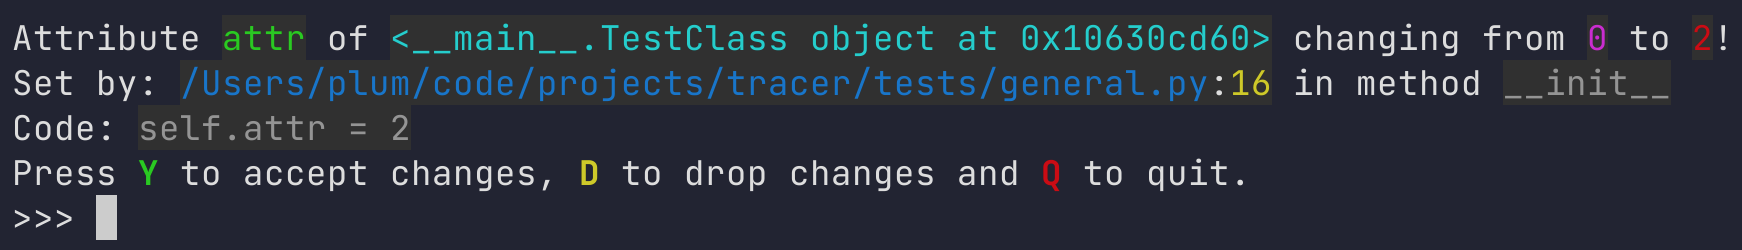
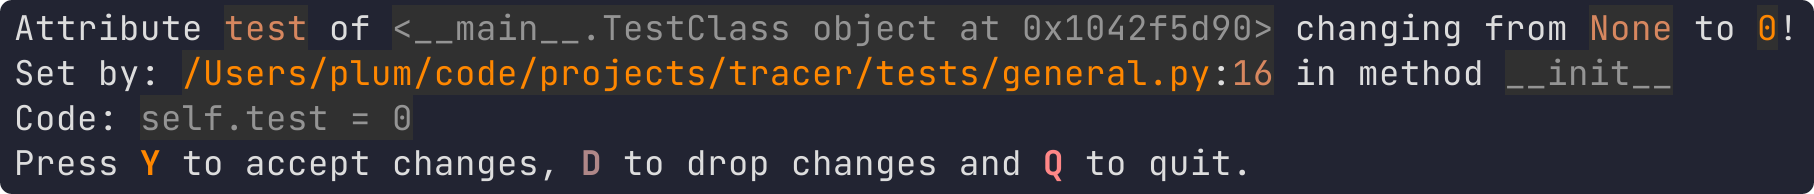
Add new colorscheme, update screenshot

diff --git a/tracer/tracer.py b/tracer/tracer.py
@@ -19,11 +19,12 @@ Traceback = Any
 
 
 TEMPLATE = """
-Attribute [code green]{attribute}[/] of [code cyan]{cls!r}[/] changing to [code red]{new}[/]!
-Set by: [code blue]{filename}[/fg]:[yellow]{lineno}[/] in method [code]{funcname}[/code]
+Attribute [code 173]{attribute}[/] of [code]{obj!r}[/] changing from [code 173]\
+{current}[/] to [code 208]{new}[/]!
+Set by: [code 208]{filename}[/fg]:[173]{lineno}[/] in method [code]{funcname}[/code]
 Code: [code]{code}[/code]
-Press [bold green]Y[/] to accept changes, [bold yellow]D[/] to drop changes and\
- [bold red]Q[/] to quit."""
+Press [bold 208]Y[/] to accept changes, [bold 138]D[/] to drop changes and\
+ [bold 210]Q[/] to quit."""
 
 
 ptg.markup.alias("code", "@236 246")
@@ -74,12 +75,12 @@ def trace(
     def decorator(cls: object) -> object:
         sunder = "_" + attribute
 
-        def default_getter(_: str) -> Any:
+        def default_getter(obj: object) -> Any:
             """Get single-underscore attribute from `cls`"""
 
-            return getattr(cls, sunder)
+            return getattr(obj, sunder)
 
-        def default_setter(_: object, new: Any) -> None:
+        def default_setter(obj: object, new: Any) -> None:
             """Print current trace and offer choices with setting"""
 
             filename, lineno, funcname, code, _ = get_caller()
@@ -87,8 +88,9 @@ def trace(
             print(
                 ptg.markup.parse(
                     TEMPLATE.format(
-                        cls=cls,
+                        obj=obj,
                         attribute=attribute,
+                        current=getattr(obj, sunder),
                         new=new,
                         filename=filename,
                         funcname=funcname,

diff --git a/tests/general.py b/tests/general.py
@@ -3,7 +3,7 @@ from random import randint
 from tracer import trace
 
 
-@trace("attr")
+@trace("test")
 class TestClass:
     """A test to showcase the tracer module"""
 
@@ -13,7 +13,7 @@ class TestClass:
         """Initialize object"""
 
         # Set attribute using dot syntax
-        self.attr = 2
+        self.test = 0
 
         # Set attribute using setattr()
         setattr(self, "attr", 1)
@@ -28,4 +28,4 @@ class TestClass:
 
 
 if __name__ == "__main__":
-    TestClass()
+    print(TestClass().attr)
